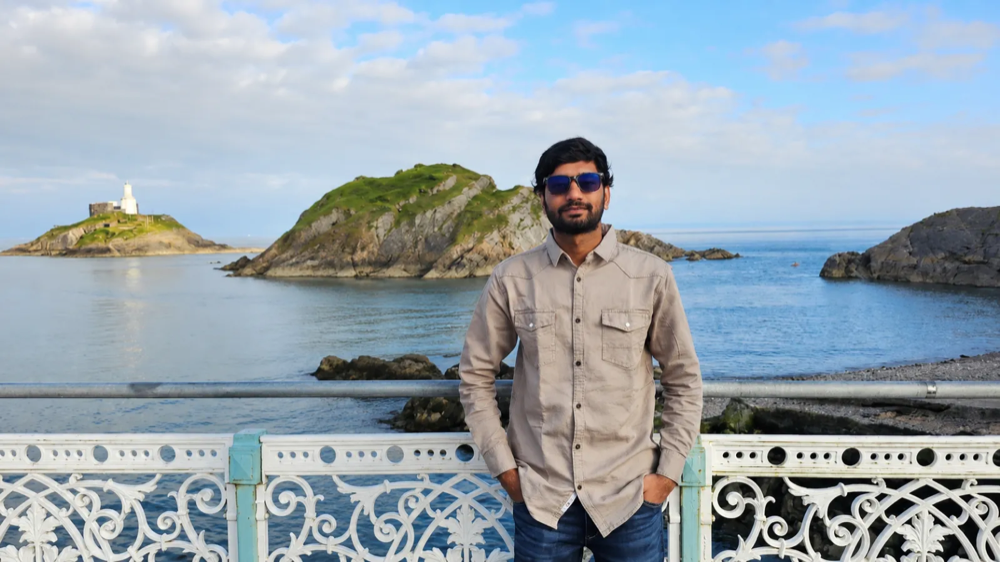
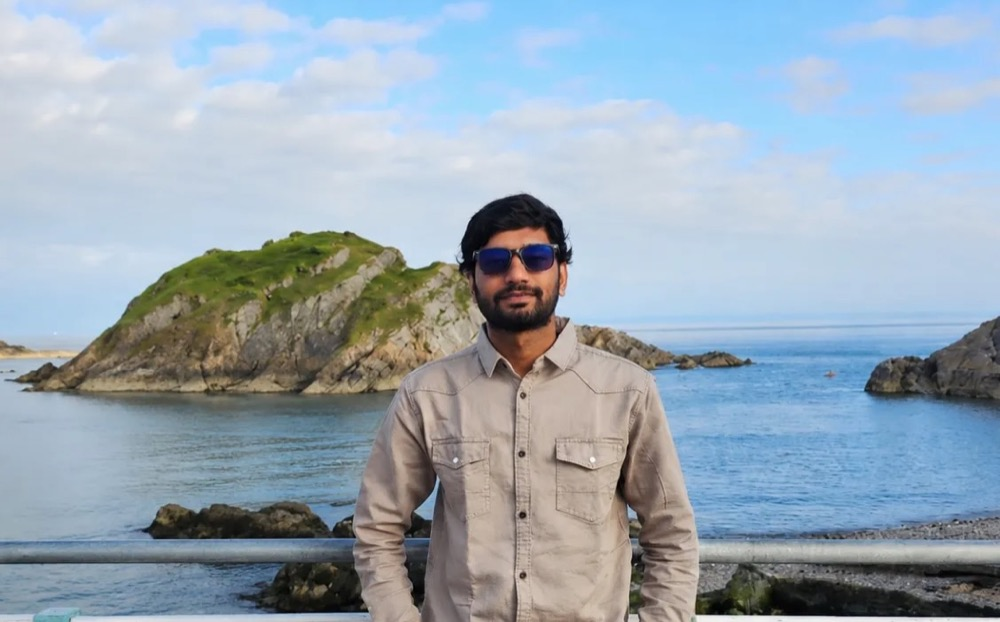
About: replace Sarfaraz photo with the correct shot

diff --git a/about.html b/about.html
@@ -21,7 +21,7 @@
 </div></div></section>
 
 <section class="biz-sec" id="team"><div class="wrap"><span class="eyebrow">The team</span><h2 class="biz-h">The people behind Togro.</h2><p class="biz-lede" style="max-width:640px">Founders and builders making the rural trust network real, with a marketing and partnerships team and advisors who know heritage and the countryside.</p>
-<div class="team-show"><div class="ts-stage" id="tsStage"><div class="tmem on"><div class="ph"><img src="images/team-georgina.jpg" alt="Georgina Bostock" style="object-position:57% 60%"></div><div class="ts-text"><h3>Georgina Bostock</h3><span class="role">Founder</span><p>Founder of Togro, building the digital infrastructure the countryside has been missing. Georgina grew up in rural Leicestershire and North Yorkshire, trained as a physiotherapist, and has since worked across startups and health tech. A natural problem solver, she started Togro to make the outdoors safer and fairer, with a free app for walkers and a living map kept honest by the people who use it.</p></div></div><div class="tmem"><div class="ph"><img src="images/team-vishnu.jpg" alt="Vishnu Prashanth Sridhar" style="object-position:29% 48%"></div><div class="ts-text"><h3>Vishnu Prashanth Sridhar</h3><span class="role">CTO</span><p>Togro's CTO, leading the platform, architecture and AI behind the map. Vishnu brings deep experience across geospatial systems, data and security, turning thousands of live reports into a trustworthy, real-time picture of the countryside. He owns the technical roadmap and the engineering team building it.</p></div></div><div class="tmem"><div class="ph"><img src="images/team-ian.jpg" alt="Ian McAllister" style="object-position:42% 45%" onerror="this.parentElement.classList.add('ini');this.parentElement.textContent='IM'"></div><div class="ts-text"><h3>Ian McAllister</h3><span class="role">Partnerships &amp; Strategy</span><p>Leads partnerships and strategy at Togro, bringing venues, farmers, councils and brands onto the network. Ian has over twenty years in marketing and events across agriculture, tourism, screen and drinks, and runs his own outsourced marketing agency, so he knows how to turn relationships into partnerships that last. A keen hillwalker and marathon runner, he is built for the ground Togro is made for.</p></div></div><div class="tmem"><div class="ph ini">JW</div><div class="ts-text"><h3>Jack Walsh</h3><span class="role">Marketing &amp; Growth</span><p>Jack has spent over a decade marketing some of the UK's biggest festivals and events, from Reading and Leeds to Hyde Park Winter Wonderland. He has headed marketing at Kilimanjaro Live, Broadwick Live and Festival Republic, building brands, teams and audiences at scale. At Togro he leads marketing and growth, getting the app into the hands of walkers across the country.</p></div></div><div class="tmem"><div class="ph"><img src="images/team-alec.jpg" alt="Alec Fedor" style="object-position:48% 24%"></div><div class="ts-text"><h3>Alec Fedor</h3><span class="role">Mobile Full-Stack Engineer</span><p>Builds the Togro mobile app, from the maps walkers follow to the GPS that verifies every report. Alec works across the full stack in Flutter, shaping the experience people use out on the trail. He turns the product vision into something fast, reliable and a pleasure to use in the field.</p></div></div><div class="tmem"><div class="ph"><img src="images/chandana.jpg" alt="Chandana Ramesh" style="object-position:50% 35%"></div><div class="ts-text"><h3>Chandana Ramesh</h3><span class="role">Mobile Engineer</span><p>Builds Togro across mobile and web, working in Flutter and React to bring the product to life on every screen. Chandana shapes the interfaces walkers, venues and farmers rely on, with a focus on clarity and craft. She is part of the core engineering team delivering Togro for launch.</p></div></div><div class="tmem"><div class="ph"><img src="images/team-sarfaraz.jpg" alt="Sarfaraz Dedrani" style="object-position:50% 45%"></div><div class="ts-text"><h3>Sarfaraz Dedrani</h3><span class="role">Backend &amp; AI Engineer</span><p>Builds the backend systems and AI that keep Togro's map accurate and trustworthy. Sarfaraz works on the infrastructure, integrations and engineering delivery behind the scenes, from verifying reports to scaling the platform. He makes sure the live picture of the countryside holds up as the community grows.</p></div></div><div class="tmem"><div class="ph ini">CP</div><div class="ts-text"><h3>Colin Pyrah OBE</h3><span class="role">Heritage &amp; Rural Tourism Advisor</span><p>Awarded an OBE in 2012 for services to the UK museum and heritage industry. Over a 40+ year career, Colin helped shape some of the UK’s most influential heritage attractions, including serving as Project Director of the Jorvik Viking Centre, with experience spanning projects across the UK and worldwide. He advises Togro on heritage and rural tourism.</p></div></div></div><div class="ts-nav"><button class="ts-arrow" id="tsPrev" aria-label="Previous member"><svg viewBox="0 0 24 24" fill="none" stroke="currentColor" stroke-width="2.4" stroke-linecap="round" stroke-linejoin="round"><path d="M15 6l-6 6 6 6"/></svg></button><div class="ts-dots" id="tsDots"><button class="ts-dot on" data-i="0" aria-label="Georgina Bostock"></button><button class="ts-dot" data-i="1" aria-label="Vishnu Prashanth Sridhar"></button><button class="ts-dot" data-i="2" aria-label="Ian McAllister"></button><button class="ts-dot" data-i="3" aria-label="Jack Walsh"></button><button class="ts-dot" data-i="4" aria-label="Alec Fedor"></button><button class="ts-dot" data-i="5" aria-label="Chandana Ramesh"></button><button class="ts-dot" data-i="6" aria-label="Sarfaraz Dedrani"></button><button class="ts-dot" data-i="7" aria-label="Colin Pyrah OBE"></button></div><button class="ts-arrow" id="tsNext" aria-label="Next member"><svg viewBox="0 0 24 24" fill="none" stroke="currentColor" stroke-width="2.4" stroke-linecap="round" stroke-linejoin="round"><path d="M9 6l6 6-6 6"/></svg></button></div></div></div></section>
+<div class="team-show"><div class="ts-stage" id="tsStage"><div class="tmem on"><div class="ph"><img src="images/team-georgina.jpg" alt="Georgina Bostock" style="object-position:57% 60%"></div><div class="ts-text"><h3>Georgina Bostock</h3><span class="role">Founder</span><p>Founder of Togro, building the digital infrastructure the countryside has been missing. Georgina grew up in rural Leicestershire and North Yorkshire, trained as a physiotherapist, and has since worked across startups and health tech. A natural problem solver, she started Togro to make the outdoors safer and fairer, with a free app for walkers and a living map kept honest by the people who use it.</p></div></div><div class="tmem"><div class="ph"><img src="images/team-vishnu.jpg" alt="Vishnu Prashanth Sridhar" style="object-position:29% 48%"></div><div class="ts-text"><h3>Vishnu Prashanth Sridhar</h3><span class="role">CTO</span><p>Togro's CTO, leading the platform, architecture and AI behind the map. Vishnu brings deep experience across geospatial systems, data and security, turning thousands of live reports into a trustworthy, real-time picture of the countryside. He owns the technical roadmap and the engineering team building it.</p></div></div><div class="tmem"><div class="ph"><img src="images/team-ian.jpg" alt="Ian McAllister" style="object-position:42% 45%" onerror="this.parentElement.classList.add('ini');this.parentElement.textContent='IM'"></div><div class="ts-text"><h3>Ian McAllister</h3><span class="role">Partnerships &amp; Strategy</span><p>Leads partnerships and strategy at Togro, bringing venues, farmers, councils and brands onto the network. Ian has over twenty years in marketing and events across agriculture, tourism, screen and drinks, and runs his own outsourced marketing agency, so he knows how to turn relationships into partnerships that last. A keen hillwalker and marathon runner, he is built for the ground Togro is made for.</p></div></div><div class="tmem"><div class="ph ini">JW</div><div class="ts-text"><h3>Jack Walsh</h3><span class="role">Marketing &amp; Growth</span><p>Jack has spent over a decade marketing some of the UK's biggest festivals and events, from Reading and Leeds to Hyde Park Winter Wonderland. He has headed marketing at Kilimanjaro Live, Broadwick Live and Festival Republic, building brands, teams and audiences at scale. At Togro he leads marketing and growth, getting the app into the hands of walkers across the country.</p></div></div><div class="tmem"><div class="ph"><img src="images/team-alec.jpg" alt="Alec Fedor" style="object-position:48% 24%"></div><div class="ts-text"><h3>Alec Fedor</h3><span class="role">Mobile Full-Stack Engineer</span><p>Builds the Togro mobile app, from the maps walkers follow to the GPS that verifies every report. Alec works across the full stack in Flutter, shaping the experience people use out on the trail. He turns the product vision into something fast, reliable and a pleasure to use in the field.</p></div></div><div class="tmem"><div class="ph"><img src="images/chandana.jpg" alt="Chandana Ramesh" style="object-position:50% 35%"></div><div class="ts-text"><h3>Chandana Ramesh</h3><span class="role">Mobile Engineer</span><p>Builds Togro across mobile and web, working in Flutter and React to bring the product to life on every screen. Chandana shapes the interfaces walkers, venues and farmers rely on, with a focus on clarity and craft. She is part of the core engineering team delivering Togro for launch.</p></div></div><div class="tmem"><div class="ph"><img src="images/team-sarfaraz.jpg" alt="Sarfaraz Dedrani" style="object-position:50% 40%"></div><div class="ts-text"><h3>Sarfaraz Dedrani</h3><span class="role">Backend &amp; AI Engineer</span><p>Builds the backend systems and AI that keep Togro's map accurate and trustworthy. Sarfaraz works on the infrastructure, integrations and engineering delivery behind the scenes, from verifying reports to scaling the platform. He makes sure the live picture of the countryside holds up as the community grows.</p></div></div><div class="tmem"><div class="ph ini">CP</div><div class="ts-text"><h3>Colin Pyrah OBE</h3><span class="role">Heritage &amp; Rural Tourism Advisor</span><p>Awarded an OBE in 2012 for services to the UK museum and heritage industry. Over a 40+ year career, Colin helped shape some of the UK’s most influential heritage attractions, including serving as Project Director of the Jorvik Viking Centre, with experience spanning projects across the UK and worldwide. He advises Togro on heritage and rural tourism.</p></div></div></div><div class="ts-nav"><button class="ts-arrow" id="tsPrev" aria-label="Previous member"><svg viewBox="0 0 24 24" fill="none" stroke="currentColor" stroke-width="2.4" stroke-linecap="round" stroke-linejoin="round"><path d="M15 6l-6 6 6 6"/></svg></button><div class="ts-dots" id="tsDots"><button class="ts-dot on" data-i="0" aria-label="Georgina Bostock"></button><button class="ts-dot" data-i="1" aria-label="Vishnu Prashanth Sridhar"></button><button class="ts-dot" data-i="2" aria-label="Ian McAllister"></button><button class="ts-dot" data-i="3" aria-label="Jack Walsh"></button><button class="ts-dot" data-i="4" aria-label="Alec Fedor"></button><button class="ts-dot" data-i="5" aria-label="Chandana Ramesh"></button><button class="ts-dot" data-i="6" aria-label="Sarfaraz Dedrani"></button><button class="ts-dot" data-i="7" aria-label="Colin Pyrah OBE"></button></div><button class="ts-arrow" id="tsNext" aria-label="Next member"><svg viewBox="0 0 24 24" fill="none" stroke="currentColor" stroke-width="2.4" stroke-linecap="round" stroke-linejoin="round"><path d="M9 6l6 6-6 6"/></svg></button></div></div></div></section>
 
 <section class="biz-sec invert" id="cta"><div class="wrap" style="text-align:center"><span class="eyebrow lime">Be part of it</span><h2 class="biz-h">Join us before launch.</h2><p class="biz-lede" style="margin:0 auto 26px">Togro launches this summer. Get the app free as a walker, or come on board as a venue, farm, council or brand.</p><div class="hero-cta" style="justify-content:center"><a href="/#cta" class="btn btn-lime btn-lg">Join the waitlist</a><a href="ambassadors" class="btn btn-ghost btn-lg">Become an ambassador</a></div></div></section>
 